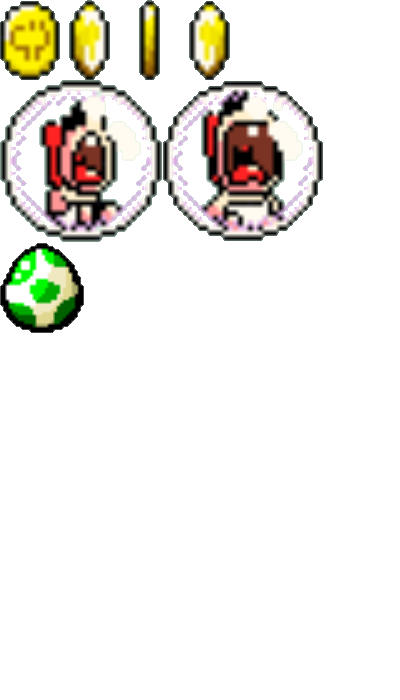
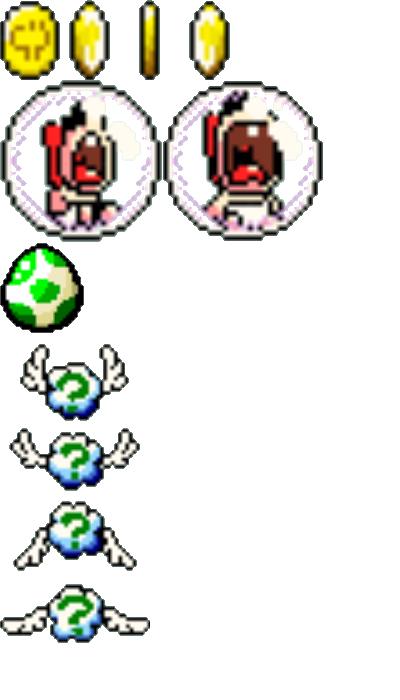
이벤트 박스 생성

Changed region(s): [[0.0, 0.48, 0.39, 0.93]]

diff --git a/item.py b/item.py
@@ -18,6 +18,51 @@ class Item:
         self.y = y
 
 
+class EventBox(Item):
+    frame = None
+
+    def __init__(self, x, y,eventfunc):
+        super(EventBox, self).__init__(x, y)
+        self.size = [54,60]
+        self.offset = [150,77]
+        self.event_func = eventfunc
+
+        if EventBox.frame == None:
+            EventBox.frame = 0
+    def draw(self, left, bottom, right, top):
+        Item.image.clip_draw(
+            0,
+            700 - 575-77+self.offset[Y]*int(EventBox.frame),
+            self.offset[X],
+            self.offset[Y],
+            self.x - left + self.offset[X] // 2,
+            self.y - bottom + self.offset[Y] // 2,
+            self.offset[X],
+            self.offset[Y]
+        )
+
+    def update(self):
+        EventBox.frame = (EventBox.frame+0.07)%4
+        pass
+        # Coin.frame = (Coin.frame + 0.01) % 4
+        # # from stage import myRect
+        # # temp = myRect(l,b,r,t)
+        # # if self.myIntersectRect(temp):
+        # #     return 100
+
+    def get_bb(self):
+        mid_x = self.x + self.offset[X]//2
+        mid_y = self.y + self.offset[Y]//2
+        return mid_x-self.size[X]//2,mid_y-self.size[Y]//2,mid_x+self.size[X]//2,mid_y+self.size[Y]//2
+
+    def handle_collision(self, other, group):
+        if group == 'eggs:eventbox':
+            self.event_func()
+            game_world.remove_object(self)
+            if self in play_state.eventbox:
+                play_state.eventbox.remove(self)
+
+
 class Egg(Item):
 
     def __init__(self, x, y, radian,face):
@@ -76,6 +121,10 @@ class Egg(Item):
             if self in play_state.eggs:
                 play_state.eggs.remove(self)
         elif group == 'eggs:largeBlock':
+            game_world.remove_object(self)
+            if self in play_state.eggs:
+                play_state.eggs.remove(self)
+        elif group == 'eggs:eventbox':
             game_world.remove_object(self)
             if self in play_state.eggs:
                 play_state.eggs.remove(self)
